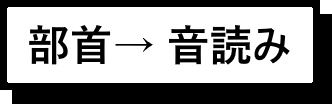
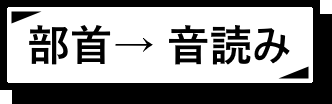
Modifed buttons to make them look cooler

Changed region(s): [[0.8434, 0.6346, 0.9337, 0.7788], [0.0301, 0.0865, 0.1205, 0.2308]]

diff --git a/stage.py b/stage.py
@@ -97,10 +97,10 @@ class Stage:
         for n in range(len(self.questions[self.current].readings)):
             text = self.questions[self.current].readings[n]
             if self.is_onyomi or self.questions[self.current].answer_at != n:
-                self.text.render_new(text)
+                self.text.render_new(text,RED)
                 self.text.render(screen, (KANJI_HORZ[n], KANJI_VERT[n] + OFFSET_Y))
             elif not self.is_onyomi and self.questions[self.current].answer_at == n:
-                self.text.render_new('★')
+                self.text.render_new('★',RED)
                 self.text.render(screen, (KANJI_HORZ[n], KANJI_VERT[n] + OFFSET_Y))
 
         ## Render buttons on the side

diff --git a/text.py b/text.py
@@ -19,14 +19,15 @@ class Text:
         self.text      = None
         self.render_new(text)
 
-    def render_new(self, string):
+    def render_new(self, string, color=None):
         ## Render a new string
         if string != self.text:
+            color = color if color else self.color
             self.text = string
             self.blittable = self.font.render(
                 self.text,
                 self.antialias,
-                self.color,
+                color,
                 )
 
     def get_rect(self, **kwargs):

diff --git a/constant.py b/constant.py
@@ -9,6 +9,7 @@ SIZE  = W,H = 800,600      ## Screen size
 FPS   = 60                 ## Screen refresh rate
 FONTSIZE = 108
 BLACK = (0,0,0)
+RED   = (255,0,0)
 
 ## GUI button placement
 KANJI_VERT = [H//4 for n in range(2)]
